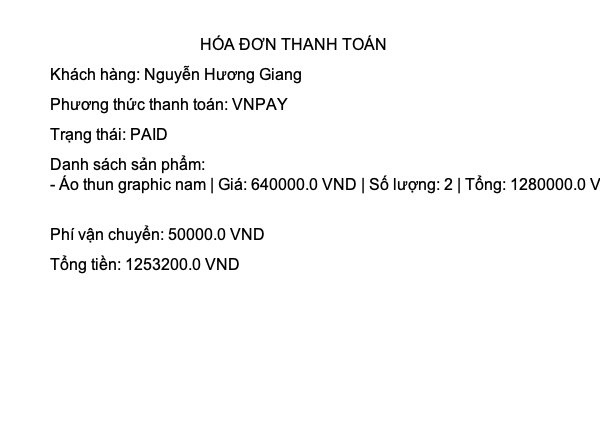
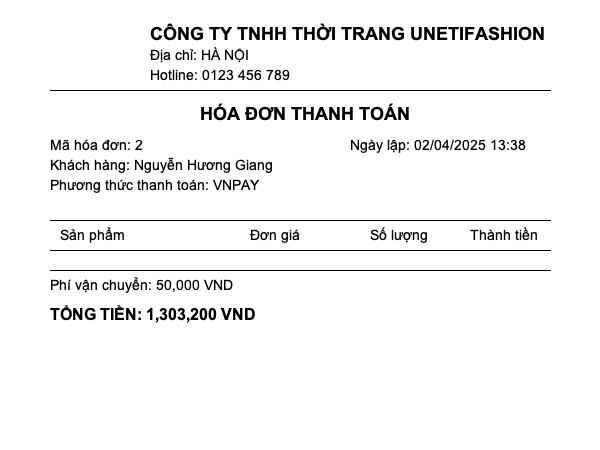
update order bill

diff --git a/src/main/java/com/example/doan/controller/OrderController.java b/src/main/java/com/example/doan/controller/OrderController.java
@@ -34,7 +34,7 @@ public class OrderController {
         if (request.getCartId() == null) {
             throw new IllegalArgumentException("Cart ID must not be null");
         }
-        System.out.println("Shipping ID received: " + request.getShippingId()); // Log giá trị shippingId
+        System.out.println("Shipping ID received: " + request.getShippingId()); 
         OrderDTO orderDTO = orderService.createOrderFromCart(
                 request.getCartId(),
                 request.getShippingId(),
@@ -48,15 +48,14 @@ public ResponseEntity<List<OrderDTO>> getOrderHistory(@PathVariable Long userId)
     List<OrderDTO> orderHistory = orderService.getOrderHistoryByUser(userId);
     return ResponseEntity.ok(orderHistory);
 }
-@PostMapping("/checkout/{billId}")
-    public ResponseEntity<?> checkout(@PathVariable Long billId) {
-        try {
-            Bill bill = billService.getBillById(billId);
-            emailService.sendInvoiceEmail(bill);
-            return ResponseEntity.ok("Hóa đơn đã được gửi email thành công!");
-        } catch (Exception e) {
-            return ResponseEntity.status(HttpStatus.INTERNAL_SERVER_ERROR).body("Lỗi: " + e.getMessage());
-        }
+@PostMapping("/createBill/{orderId}")
+public ResponseEntity<?> generateBill(@PathVariable Long orderId) {
+    try {
+        Bill bill = billService.createBill(orderId);
+        return ResponseEntity.ok("Hóa đơn đã được tạo thành công!");
+    } catch (Exception e) {
+        return ResponseEntity.status(HttpStatus.INTERNAL_SERVER_ERROR).body("Lỗi: " + e.getMessage());
     }
+}
 
 }

diff --git a/src/main/java/com/example/doan/controller/PaymentController.java b/src/main/java/com/example/doan/controller/PaymentController.java
@@ -12,22 +12,13 @@ import org.springframework.web.bind.annotation.GetMapping;
 import org.springframework.web.bind.annotation.RequestMapping;
 import org.springframework.web.bind.annotation.RequestParam;
 import org.springframework.web.bind.annotation.RestController;
-import org.springframework.security.core.context.SecurityContextHolder;
-import org.springframework.security.core.Authentication;
 import com.example.doan.config.Config;
-import com.example.doan.dto.CartDTO;
-import com.example.doan.entity.Bill;
-import com.example.doan.entity.CartItem;
-import com.example.doan.entity.OrderItem;
+
 import com.example.doan.entity.Orders;
-import com.example.doan.entity.UserEntity;
-import com.example.doan.repository.BillRepository;
-import com.example.doan.repository.CartRepository;
+
 import com.example.doan.repository.OrderRepository;
-import com.example.doan.repository.UserRepository;
+
 import com.example.doan.service.BillService;
-import com.example.doan.service.CartService;
-import com.example.doan.service.UserService;
 import com.example.doan.status.OrderEnum;
 import com.example.doan.status.PaymentStatus;
 
@@ -37,14 +28,10 @@ public class PaymentController {
 
     @Autowired
     private OrderRepository orderRepository;
-    @Autowired
-    private UserService userService;
+
     @Autowired
     private BillService billService;
 
-    @Autowired
-    private CartService cartService;
-    
 
     @GetMapping("/create_payment")
     public String createPayment(@RequestParam("orderId") Long orderId) throws UnsupportedEncodingException {

diff --git a/src/main/java/com/example/doan/controller/AuthController.java b/src/main/java/com/example/doan/controller/AuthController.java
@@ -2,7 +2,6 @@ package com.example.doan.controller;
 
 import com.example.doan.entity.UserEntity;
 import com.example.doan.repository.UserRepository;
-import com.example.doan.status.UserType;
 
 import jakarta.servlet.http.HttpServletRequest;
 import jakarta.servlet.http.HttpServletResponse;
@@ -16,7 +15,6 @@ import org.springframework.security.core.context.SecurityContextHolder;
 import org.springframework.security.oauth2.core.user.OAuth2User;
 import org.springframework.web.bind.annotation.GetMapping;
 import org.springframework.web.bind.annotation.RequestMapping;
-import org.springframework.web.bind.annotation.RequestParam;
 import org.springframework.web.bind.annotation.RestController;
 
 @RestController

diff --git a/src/main/java/com/example/doan/service/OderImple.java b/src/main/java/com/example/doan/service/OderImple.java
@@ -120,7 +120,6 @@ public class OderImple implements OrderService{
         order.setTotalPrice(total + order.calculateShippingFee());
         order.setShippingFee(order.calculateShippingFee());
         orderRepository.save(order);
-        billService.createBill(order.getId());
 
         cartItemRepository.deleteAll(cartItems);
         cartRepository.delete(cart);
